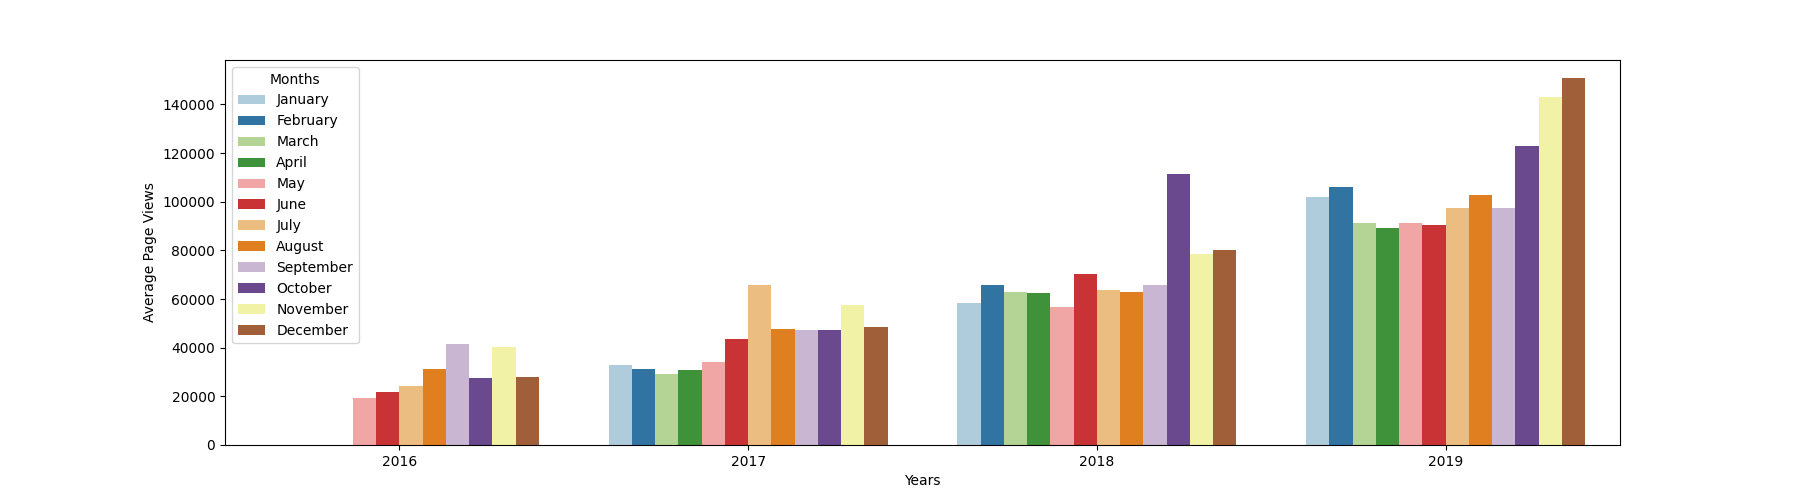
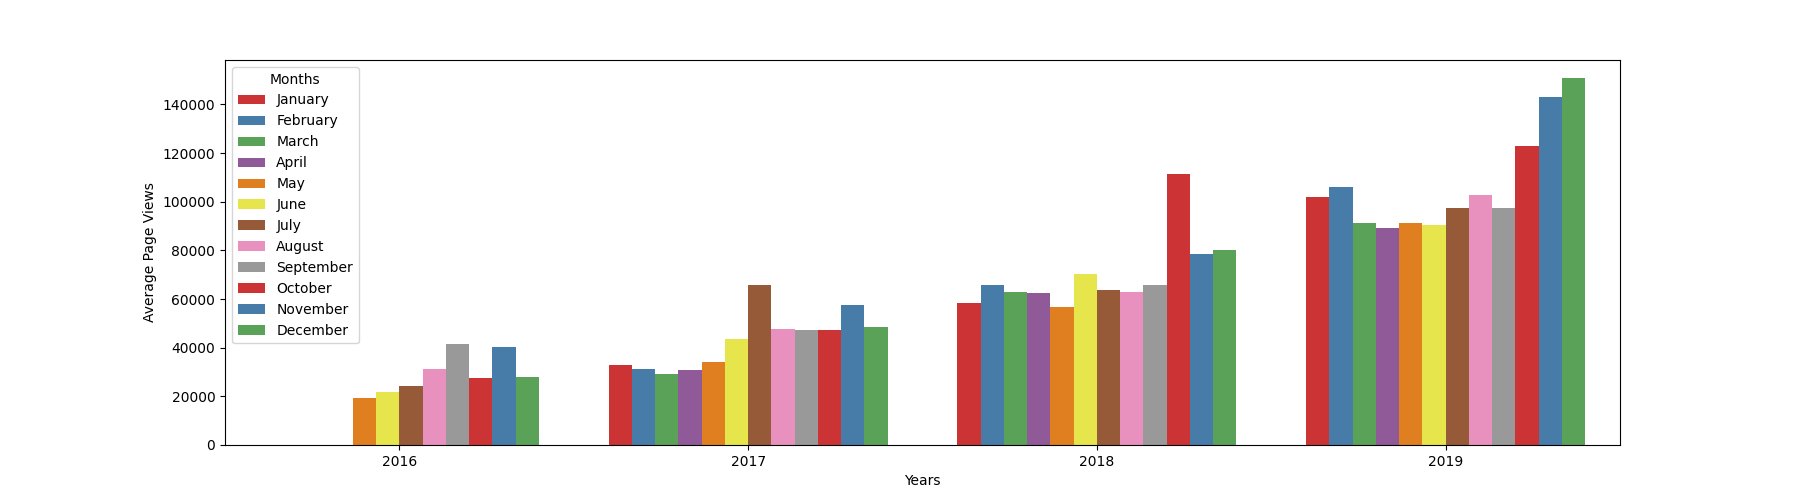
feat: add a README.md file

diff --git a/time_series_visualizer.py b/time_series_visualizer.py
@@ -1,103 +1,161 @@
+# Import the libraries used in this project
 import matplotlib.pyplot as plt
 import pandas as pd
 import seaborn as sns
 from pandas.plotting import register_matplotlib_converters
+# Call the pandas function that register pandas formatters and converters with matplotlib.
+# It basically makes sure that pandas datatypes like pd.Timestamp can be used in matplotlib
 register_matplotlib_converters()
 
-# Import data. To learn how to parse dates and set an index column I checked the
-# pandas documentation(https://www.geeksforgeeks.org/pandas/python-read-csv-using-pandas-read_csv/) and learned that with the parameterindex_col, I can put a specific column as 
-# de index, and that parse_dates allows me to pass the names of the columns I want to
-# be as the type datetime, in this case, the date column.
-
+# Import the CSV data. To learn how to parse dates and set an index column, I reviewed
+# the pandas documentation: https://www.geeksforgeeks.org/pandas/python-read-csv-using-pandas-read_csv/
+# With the parameter index_col I can set a specific column as the index, and with parse_dates
+# I can specify which columns should be parsed as datetime. In this case, the 'date' column.
 df = pd.read_csv('fcc-forum-pageviews.csv', index_col='date', parse_dates=['date'])
 
-# Clean data - Here we are only keeping the values that are not to extremy. The values
-# above the 2.5% quantile and the values below the 97.5% quantile. In order to do this 
-# we are using the method .quartile()
-# that is used to return the value of that quantile. for example, the qauntile(0.025), means
+# Clean data - Here we are only keeping the values that are not to extreme, we are 
+# removing the outliers. The values above the 2.5% quantile and the values below the 
+# 97.5% quantile. In order to do this we are using the method .quartile()
+# that is used to return the value of that quantile. For example, the qauntile(0.025), means
 # the value were 97.5% of the values in the dataframe are above that value, while
 # 2.5% of the values in the dataframe are below that that value.
 df = df[
-    (df['value'] >= df['value'].quantile(0.025)) &
+    (df['value'] >= df['value'].quantile(0.025)) & # The & operator is used to combine the filters
     (df['value'] <= df['value'].quantile(0.975))
 ]
 
-
+# Define the function draw_line_plot
 def draw_line_plot():
-    plt.clf() 
+    plt.clf() # This line clears the current Matplotlib figure.
+    # Before adding this line, running the code again would stack one plot on top of another.
+    # I learned this at: https://www.activestate.com/resources/quick-reads/how-to-clear-a-plot-in-python/
+
+    # Create a copy of the original DataFrame with the method .copy()
     df_line = df.copy()
-    df_line.reset_index(inplace=True)
-    # Draw line plot - In order to do that I searched the seaborn line plot documentation, and found the 
+
+    # Draw line plot - In order to do that I searched the seaborn line plot documentation and found the 
     # website: https://seaborn.pydata.org/generated/seaborn.lineplot.html
-    # There I learned that in order to create that line plot I had to pass the dataframe
-    # in the data parameter and the x and y axis values, it is which column should be in what axis.
-    df_line = df.copy()
-    df_line.reset_index(inplace=True)
-    lineplot = sns.lineplot(data= df_line, x = 'date', # the date values will be displayed in the x axis
-                             y = 'value', # the views will be displayed in the y axis
+    # There, I learned that to create that line plot I had to pass the dataframe
+    # in the data parameter and the x and y axis values, that is, which column should be in which axis.
+    lineplot = sns.lineplot(data= df_line, x = 'date', # the date values will be displayed on the x axis
+                             y = 'value', # the views will be displayed on the y axis
                             color='red') # setting the color as red so it looks more similar to the example
-    # This works, but there is a problem, in this way the name of the x and y axis
-    # are date and value, not Date and Page Views, also there is no title in the chart as the exercise required. In order to
-    #change the name of the axis I had to search more. i found this website:
+    # This works, but there is a problem: in this way the name of the x and y axis
+    # are 'date' and 'value', not 'Date' and 'Page Views', and there is no title in the chart as the exercise required. 
+    # In order to change the name of the axis I had to search more. I found this website:
     # https://www.statology.org/seaborn-axis-labels/
-    # There I discovered that to change the and y labels I could use the .set() 
-    # method or the Matplotlib Functions, here I preferred to use the .set() method.
+    # There I discovered that to change the x and y labels I could use the .set() 
+    # method or the Matplotlib functions, here I preferred to use the .set() method.
     lineplot.set(xlabel = 'Date', # Defines the name of the x axis on the chart
                  ylabel = 'Page Views',  # Defines the name of the y axis on the chart
                  title = 'Daily freeCodeCamp Forum Page Views 5/2016-12/2019')  # Defines a title for this chart
-    # To get acess to the figure object that will be returned later
+    
+    # To get access to the figure object that will be returned later
     fig = lineplot.figure
-    # Save image and return fig (don't change this part)
+
+    # Save image and return fig 
     fig.savefig('line_plot.png')
     return fig
 
-draw_line_plot()
+# draw_line_plot() only for testing
 
+# Define the draw_bar_plot function
 def draw_bar_plot():
-    # Copy and modify data for monthly bar plot
+    # Create a copy of the original DataFrame using the .copy() method
     df_bar = df.copy()
-    """ 
+
+    # To get a monthly bar plot, I knew I would have to access the month separately in the data.
+    # In order to do that, I tried the following code:
+    """
     df_bar['Years'] = df_bar['date'].dt.year
     df_bar['Months'] = df_bar['date'].dt.month_name
-    df_bar['Average Page Views'] = df_bar.groupby(['year', 'month']).mean() 
+    df_bar['Average Page Views'] = df_bar.groupby(['year', 'month']).mean()
     """
+    # It didn't work because 'date' isn't a column anymore; now it is
+    # an index. So to learn how to access months in index dates, I found this site:
     # https://stackoverflow.com/questions/54110673/pandas-extracting-month-and-year-from-index
+    # There I discovered that I could use .index.year to get the years.
     df_bar['Years'] = df_bar.index.year
-    #https://www.geeksforgeeks.org/python/python-strftime-function/
+
+    # To get the month, I had to search again and found this site:
+    # https://www.geeksforgeeks.org/python/python-strftime-function/
+    # There I learned that the .strftime function allows you to convert a datetime object into a formatted string.
+    # I also learned that to get the full month name, as needed to create a bar plot similar to the example,
+    # we can use '%B' as a parameter for this function.
     df_bar['Months'] = df_bar.index.strftime('%B')
-    df_bar = df_bar.groupby(['Years', 'Months'])['value'].mean().reset_index(name = 'Average Page Views')
+
+    # To calculate the average page views per month, I used the .groupby method to group by year and month,
+    # then applied .mean() to get the monthly average. Finally, I used .reset_index to convert the grouped indexes
+    # ('Years' and 'Months') back into columns. By passing the name parameter as 'Average Page Views',
+    # I set the name of the column that stores the monthly averages.
+    df_bar = df_bar.groupby(['Years', 'Months'])['value'].mean().reset_index(name='Average Page Views')
     
-    print(df_bar)
-    plt.clf()  # Limpa o estado anterior
-    # Draw bar plot
-    barplot = sns.barplot(data = df_bar, x = 'Years', y = 'Average Page Views', hue = 'Months', hue_order=['January', 'February', 'March', 'April', 'May', 'June', 'July', 'August', 'September', 'October', 'November', 'December'],
-                          palette = 'Paired')
-    # To get acess to the figure ans axes object
+    # Clears the current Matplotlib figure, so charts are not plotted on top of each other.
+    plt.clf()  
+
+    # Draw bar plot — To draw the bar plot, I searched the internet and found this
+    # site: https://datagy.io/seaborn-barplot/. There I understood which parameters I should use.
+    barplot = sns.barplot(
+        data=df_bar,  # Use the sns.barplot() function to create the bar plot and pass df_bar as the data to be plotted
+        x='Years',  # The values on the x-axis will be those in the 'Years' column
+        y='Average Page Views',  # The values on the y-axis will be those in the 'Average Page Views' column
+        hue='Months',  # This splits each bar into multiple bars, each representing a specific month
+        hue_order=['January', 'February', 'March', 'April', 'May', 'June', 'July', 'August', 'September', 'October', 'November', 'December'],  # Orders the months correctly in the chart, otherwise, they appear in the order found in the data
+        palette='Set1'  # Sets the colors of the bar plot to the 'Set1' palette. I chose this one, but there are several palettes available
+    )
+
+    # Acess the figure object and stores it on the fig variable
     fig = barplot.figure
 
-    # Save image and return fig (don't change this part)
+    # Save image and return fig
     fig.savefig('bar_plot.png')
     return fig
 
-draw_bar_plot()
-
 def draw_box_plot():
-    # Prepare data for box plots (this part is done!)
-    df_box = df.copy()
-    df_box.reset_index(inplace=True)
-    df_box['Year'] = [d.year for d in df_box.date]
-    df_box['Month'] = [d.strftime('%b') for d in df_box.date]
+    # Prepare data for box plots
+    df_box = df.copy() # Creates a copy of the original DataFrame
+    df_box.reset_index(inplace=True) # Resets the index so that 'date' becomes a column instead of the DataFrame index,
+    # making it easier to work with. So now I won't need to use the .index anymore to access the date.
+    df_box['Year'] = [d.year for d in df_box.date] # Gets the year of the date column
+    df_box['Month'] = [d.strftime('%b') for d in df_box.date] # Gets the month with the .strftime function that allows you to convert a
+    # datetime object into a formatted string. But here, instead of what we did before, we don't use '%B', because now we want an
+    # abbreviation of the month name, so we use '%b' instead.
 
-    #https://www.geeksforgeeks.org/data-visualization/plotting-multiple-figures-in-a-row-using-seaborn/
-    fig, axes = plt.subplots(1, 2, figsize=(18, 5))
-    # Draw box plots (using Seaborn)
-    box_plot1 = sns.boxplot(data = df_box, x= 'Year', y = 'value', ax = axes[0])
-    box_plot1.set(ylabel = 'Page Views', title = 'Year-wise Box Plot (Trend)')
+    # To draw two adjacent box plots similar to "examples/Figure_3.png", I searched the internet and found this site:
+    # https://www.geeksforgeeks.org/data-visualization/plotting-multiple-figures-in-a-row-using-seaborn/
+    # There I learned that I could use the subplot functionality provided by Matplotlib. This allows you to create multiple plots side by side in a single figure.
+    # Here, I created a figure with 1 row and 2 columns. I also set the figure size to (18, 5), which means the figure will be 18 inches wide and 5 inches tall. 
+    fig, axes = plt.subplots(1, 2, figsize=(18, 5)) # I assign the subplot to the fig and axes variables so I can easily reference the figure and each individual axis later.
+   
+    # Draw box plots (using Seaborn) - To do this, I searched the Seaborn documentation at: https://seaborn.pydata.org/generated/seaborn.boxplot.html to find
+    # the parameters I should use.
+    box_plot1 = sns.boxplot(
+                            data=df_box, # Use the sns.boxplot() function to create the box plot and pass df_box as the data to be plotted
+                            x='Year', # The values on the x-axis will be those in the 'Year' column
+                            y='value', # The values on the y-axis will be those in the 'value' column
+                            ax=axes[0], # Specifies which axis (subplot) the plot should be drawn on
+                            palette='Set2' # Sets the colors of the box plot to the 'Set2' palette. I chose this one, but there are several palettes available
+    )
 
-    box_plot2 = sns.boxplot(data =df_box, x='Month', y = 'value', ax = axes[1], order=['Jan', 'Feb', 'Mar', 'Apr', 'May', 'Jun', 'Jul', 'Aug', 'Sep', 'Oct', 'Nov', 'Dec'])
-    box_plot2.set(ylabel= 'Page Views', title = 'Month-wise Box Plot (Seasonality)')
+    # The .set method allows you to change properties of the plot, such as labels and title.
+    box_plot1.set(ylabel='Page Views', # Changes the y-axis label to 'Page Views'
+                  title='Year-wise Box Plot (Trend)') # Adds a title to the plot 
 
-    # Save image and return fig (don't change this part)
+    # Creates the second box plot
+    box_plot2 = sns.boxplot(
+        data=df_box, # Use the sns.boxplot() function to create the box plot and pass df_box as the data to be plotted
+        x='Month', # The values on the x-axis will be those in the 'Month' column (abbreviated month names)
+        y='value', # The values on the y-axis will be those in the 'value' column
+        ax=axes[1], # Specifies which axis (subplot) the plot should be drawn on (the second plot)
+        order=['Jan', 'Feb', 'Mar', 'Apr', 'May', 'Jun', 'Jul', 'Aug', 'Sep', 'Oct', 'Nov', 'Dec'], # Ensures the months are ordered correctly from January to December
+        palette='Set2' # Sets the colors of the box plot to the 'Set2' palette. I chose this one, but there are several palettes available
+    )
+
+    # The .set method allows you to change properties of the plot, such as labels and title.
+    box_plot2.set(ylabel='Page Views', # Changes the y-axis label to 'Page Views'
+                  title='Month-wise Box Plot (Seasonality)') # Adds a title to the plot
+
+    # Save image and return fig 
     fig.savefig('box_plot.png')
     return fig
-draw_box_plot()
+

diff --git a/README.md b/README.md
@@ -1,2 +1,57 @@
 # Page View Time Series Visualizer
 
+This project analyzes and visualizes time series data of page views from the freeCodeCamp forum. It uses Python, pandas, matplotlib, and seaborn to generate three types of plots: line plot, bar plot, and box plot.
+
+## Features
+- **Line Plot:** Shows daily page views over time.
+- **Bar Plot:** Displays average monthly page views grouped by year and month.
+- **Box Plot:** Visualizes the distribution of page views by year and by month to show trends and seasonality.
+
+## Files
+- `main.py`: Main script to run the visualizations.
+- `time_series_visualizer.py`: Contains all plotting functions and data processing logic.
+- `fcc-forum-pageviews.csv`: Dataset with daily page views.
+- `line_plot.png`, `bar_plot.png`, `box_plot.png`: Output images generated by the visualizer.
+- `test_module.py`: Test file for validating the functions.
+- `requirements.txt`: List of required Python packages.
+- `examples/`: Example output images for reference.
+
+## How to Run
+1. Install dependencies:
+	```bash
+	pip install -r requirements.txt
+	```
+2. Run the main script:
+	```bash
+	python main.py
+	```
+3. The output plots will be saved as PNG files in the project directory.
+
+## Requirements
+- Python 3.x
+- pandas
+- matplotlib
+- seaborn
+
+## Project Structure
+```
+Page-View-Time-Series-Visualizer/
+├── main.py
+├── time_series_visualizer.py
+├── fcc-forum-pageviews.csv
+├── requirements.txt
+├── test_module.py
+├── line_plot.png
+├── bar_plot.png
+├── box_plot.png
+├── examples/
+│   ├── Figure_1.png
+│   ├── Figure_2.png
+│   └── Figure_3.png
+└── README.md
+```
+
+## License
+This project is licensed under the MIT License.
+
+
